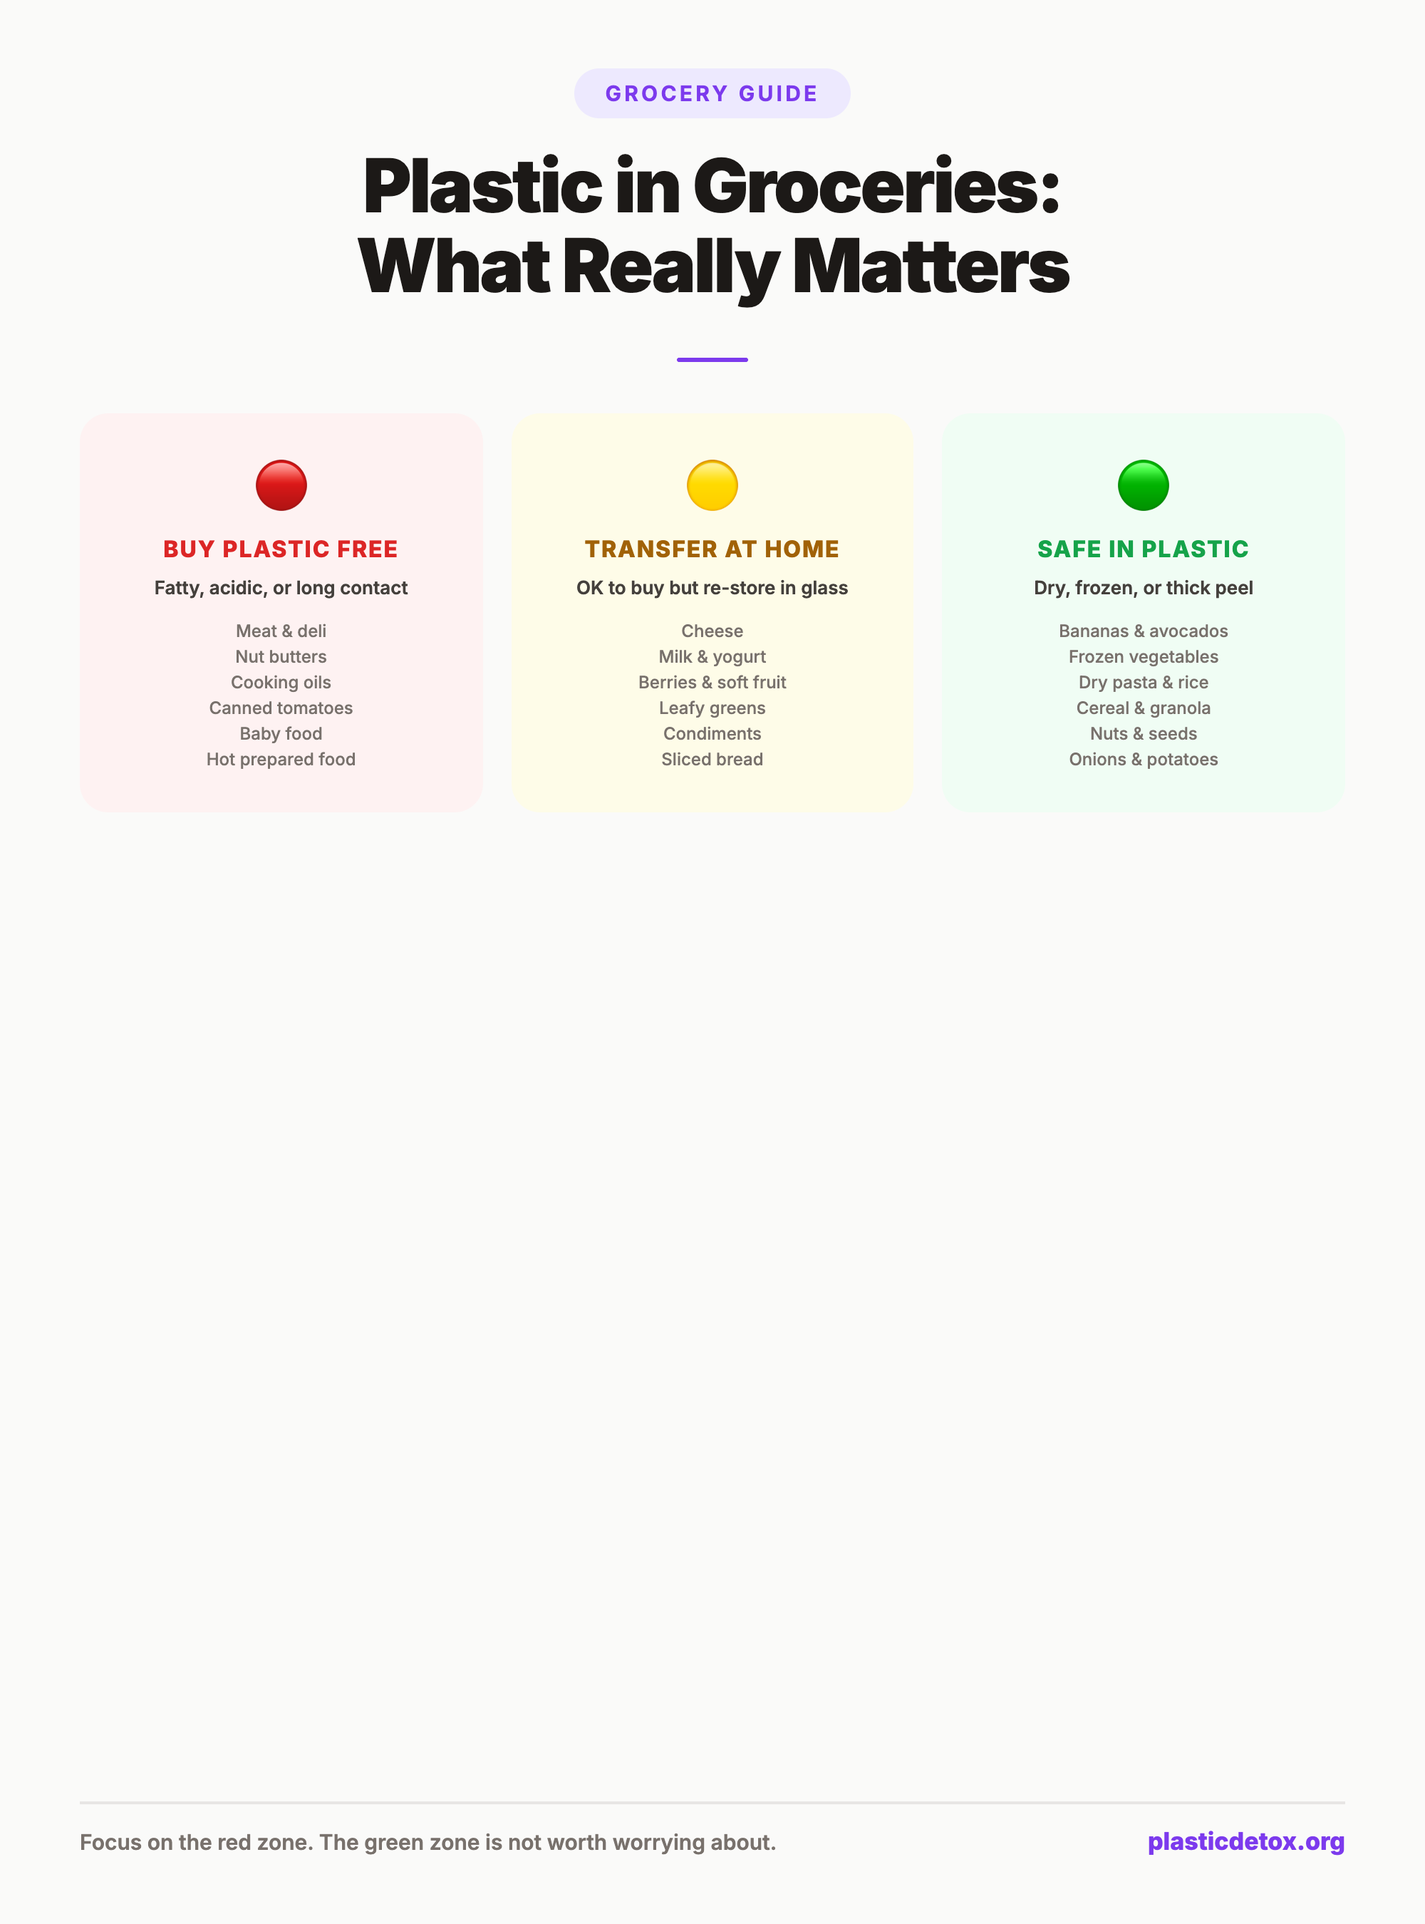
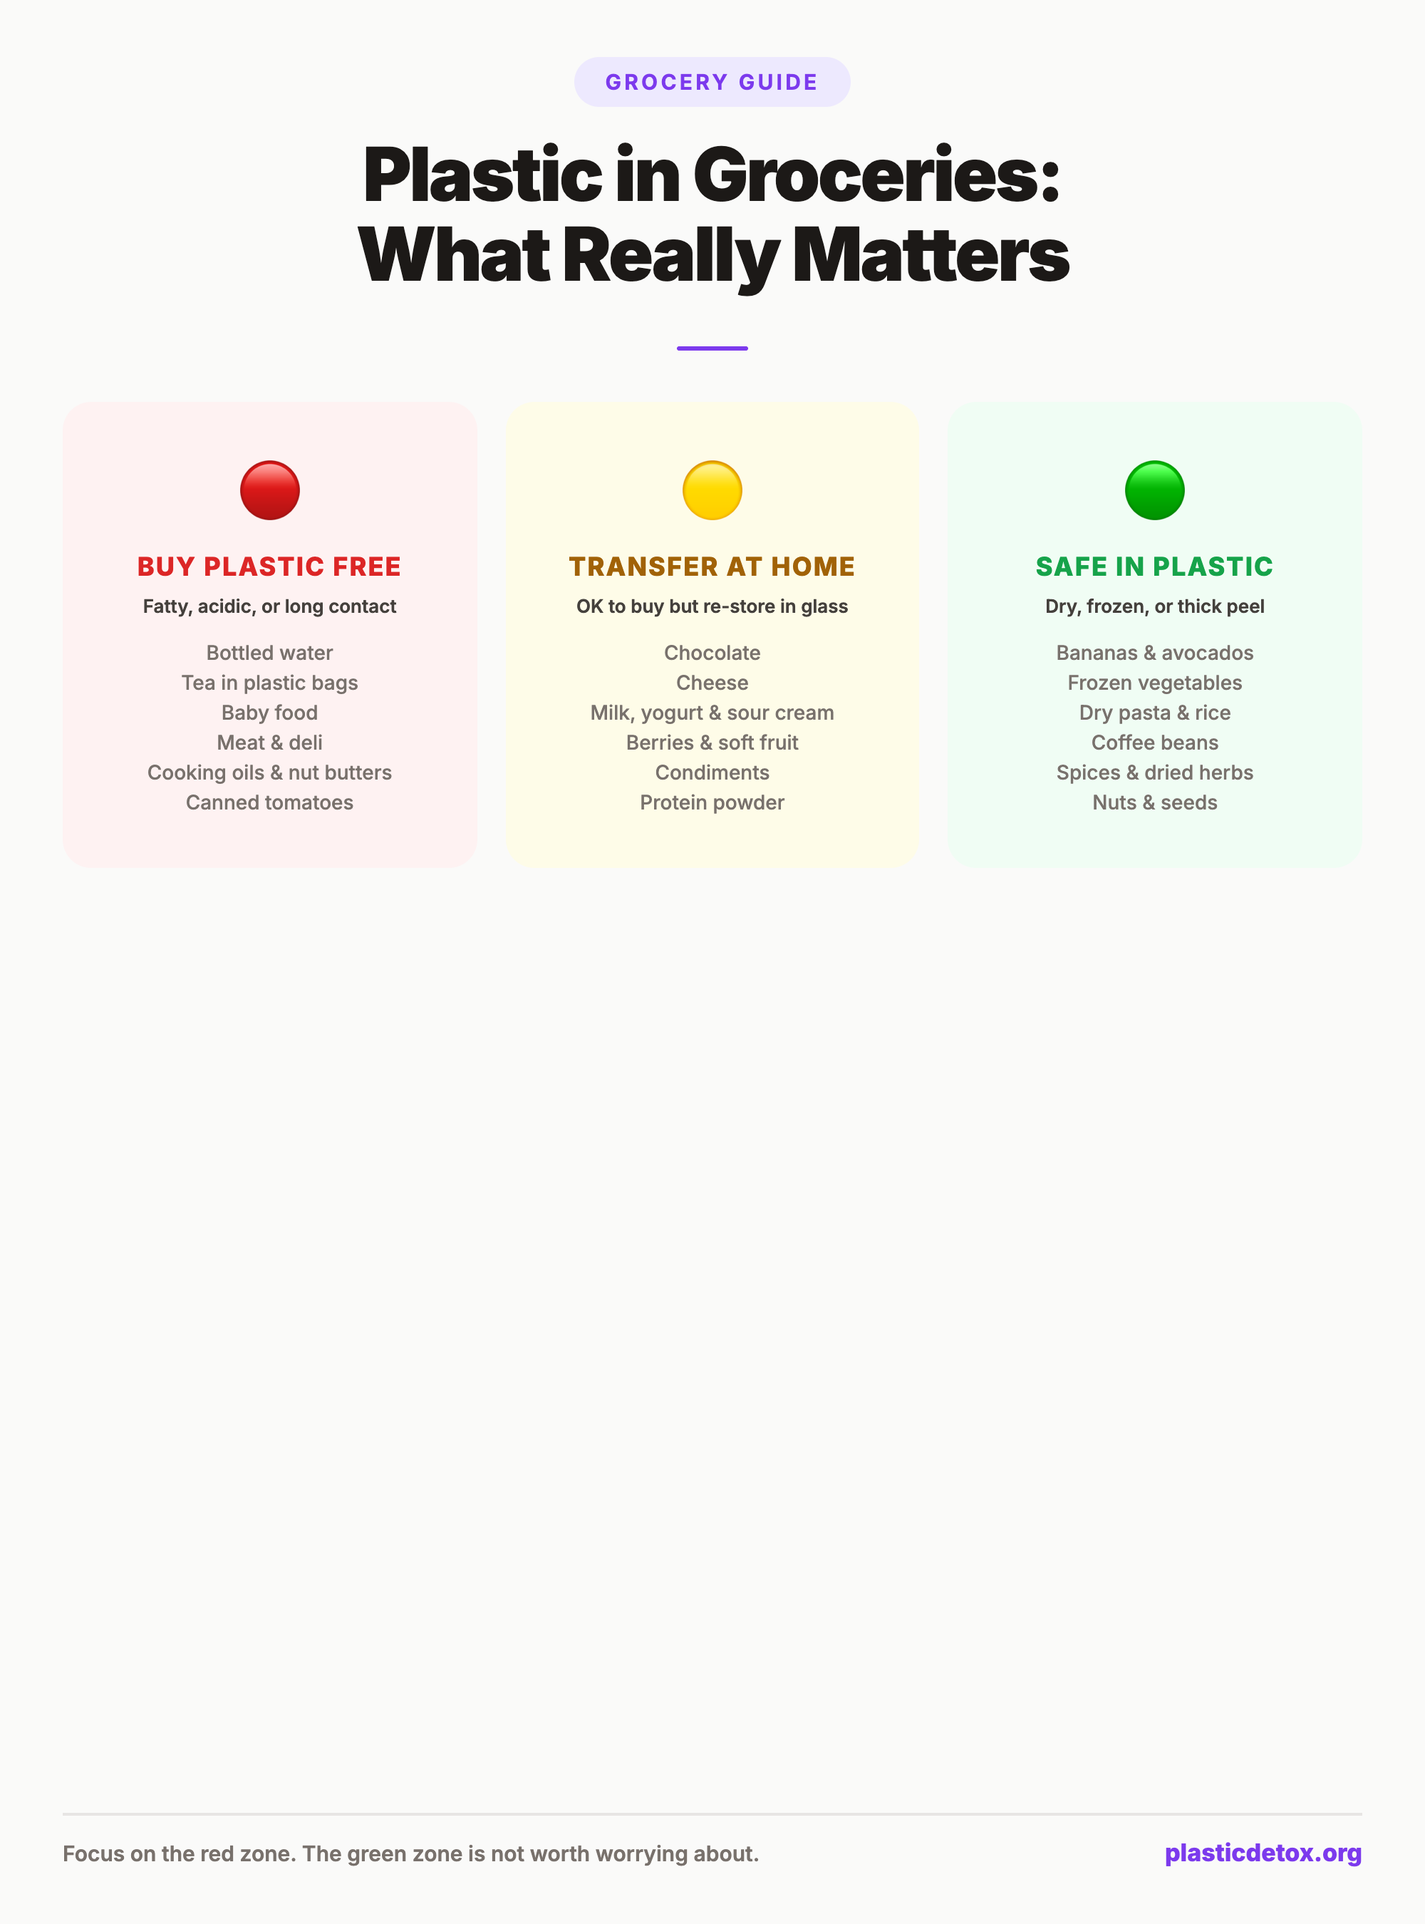
Update headline pin and create PNG infographics for all 4 article charts
- Headline pin: updated all 3 zones to match current article content
  (bottled water, tea bags, baby food as top red zone items)
- New: groceries-infographic-factors.png (4 leaching factors grid)
- New: groceries-infographic-bpa.png (BPA levels bar chart)
- New: groceries-infographic-repack.png (repacking cheat sheet table)
All at 1080x1350 pin ratio via Puppeteer screenshot.

diff --git a/images/groceries-infographic-repack.html b/images/groceries-infographic-repack.html
@@ -1,0 +1,101 @@
+<!DOCTYPE html>
+<html lang="en">
+<head>
+  <meta charset="UTF-8">
+  <meta name="robots" content="noindex, nofollow">
+  <title>Groceries — Repack Cheat Sheet</title>
+  <link href="https://fonts.googleapis.com/css2?family=Inter:wght@400;500;600;700;800;900&display=swap" rel="stylesheet">
+  <style>
+    * { margin: 0; padding: 0; box-sizing: border-box; }
+    body { background: #d6d3d1; display: flex; justify-content: center; padding: 2rem; font-family: 'Inter', -apple-system, sans-serif; }
+    .pin { width: 1080px; height: 1350px; background: #fafaf9; display: flex; flex-direction: column; align-items: center; padding: 44px 48px; }
+    .headline-tag { display: inline-block; font-size: 15px; font-weight: 700; text-transform: uppercase; letter-spacing: 0.14em; color: #7c3aed; background: #ede9fe; padding: 8px 22px; border-radius: 100px; margin-bottom: 16px; }
+    h1 { font-size: 42px; font-weight: 900; color: #1c1917; line-height: 1.08; letter-spacing: -0.03em; text-align: center; margin-bottom: 28px; }
+    .divider { width: 50px; height: 3px; background: #7c3aed; border-radius: 2px; margin-bottom: 28px; }
+    .rows { width: 100%; display: flex; flex-direction: column; gap: 8px; }
+    .row { display: flex; align-items: center; gap: 16px; background: #fff; border-radius: 14px; padding: 14px 20px; box-shadow: 0 1px 4px rgba(0,0,0,0.05); }
+    .row-food { width: 200px; font-size: 16px; font-weight: 800; color: #1c1917; flex-shrink: 0; }
+    .row-arrow { font-size: 16px; color: #7c3aed; font-weight: 800; flex-shrink: 0; }
+    .row-into { flex: 1; font-size: 15px; font-weight: 600; color: #44403c; }
+    .row-tip { font-size: 12px; font-weight: 500; color: #a8a29e; margin-left: auto; flex-shrink: 0; max-width: 260px; text-align: right; }
+    .bottom-note { font-size: 14px; font-weight: 600; color: #78716c; text-align: center; margin-top: 24px; line-height: 1.5; max-width: 800px; }
+    .footer { display: flex; align-items: center; justify-content: space-between; width: 100%; margin-top: auto; padding-top: 16px; border-top: 2px solid #e7e5e4; }
+    .footer-stat { font-size: 15px; font-weight: 600; color: #78716c; }
+    .footer-url { font-size: 17px; font-weight: 800; color: #7c3aed; }
+  </style>
+</head>
+<body>
+  <div class="pin">
+    <div class="headline-tag">Grocery Guide</div>
+    <h1>How to Repack Everything<br>When You Get Home</h1>
+    <div class="divider"></div>
+    <div class="rows">
+      <div class="row">
+        <div class="row-food">Meat and fish</div>
+        <div class="row-arrow">→</div>
+        <div class="row-into">Mason jars (32 oz) or parchment paper</div>
+        <div class="row-tip">Leave headspace for freezing</div>
+      </div>
+      <div class="row">
+        <div class="row-food">Cheese</div>
+        <div class="row-arrow">→</div>
+        <div class="row-into">Bee's Wrap or Formaticum paper</div>
+        <div class="row-tip">Unwrap from plastic immediately</div>
+      </div>
+      <div class="row">
+        <div class="row-food">Milk</div>
+        <div class="row-arrow">→</div>
+        <div class="row-into">Glass pitcher</div>
+        <div class="row-tip">Pour as soon as you unpack</div>
+      </div>
+      <div class="row">
+        <div class="row-food">Yogurt &amp; sour cream</div>
+        <div class="row-arrow">→</div>
+        <div class="row-into">Mason jars or glass bowls</div>
+        <div class="row-tip">Buy large tubs, portion to glass</div>
+      </div>
+      <div class="row">
+        <div class="row-food">Butter</div>
+        <div class="row-arrow">→</div>
+        <div class="row-into">Glass butter dish</div>
+        <div class="row-tip">Foil wrapped is lower risk</div>
+      </div>
+      <div class="row">
+        <div class="row-food">Berries &amp; soft fruit</div>
+        <div class="row-arrow">→</div>
+        <div class="row-into">Glass container or bowl</div>
+        <div class="row-tip">Rinse first to remove particles</div>
+      </div>
+      <div class="row">
+        <div class="row-food">Leafy greens</div>
+        <div class="row-arrow">→</div>
+        <div class="row-into">Glass container or salad spinner</div>
+        <div class="row-tip">Rinse even if "pre washed"</div>
+      </div>
+      <div class="row">
+        <div class="row-food">Condiments</div>
+        <div class="row-arrow">→</div>
+        <div class="row-into">Buy in glass (Primal Kitchen, Bragg)</div>
+        <div class="row-tip">Transfer squeeze bottles to jars</div>
+      </div>
+      <div class="row">
+        <div class="row-food">Bread</div>
+        <div class="row-arrow">→</div>
+        <div class="row-into">Linen bread bag or bread box</div>
+        <div class="row-tip">Buy bakery paper bags</div>
+      </div>
+      <div class="row">
+        <div class="row-food">Protein powder</div>
+        <div class="row-arrow">→</div>
+        <div class="row-into">Half gallon Mason jar (64 oz)</div>
+        <div class="row-tip">Transfer from tub on day one</div>
+      </div>
+    </div>
+    <div class="bottom-note">The goal is not perfection. Just getting food out of plastic within a few hours of arriving home eliminates the majority of ongoing exposure.</div>
+    <div class="footer">
+      <span class="footer-stat">Unpack groceries into glass, steel, or paper.</span>
+      <span class="footer-url">plasticdetox.org</span>
+    </div>
+  </div>
+</body>
+</html>

diff --git a/images/groceries-infographic-bpa.html b/images/groceries-infographic-bpa.html
@@ -1,0 +1,71 @@
+<!DOCTYPE html>
+<html lang="en">
+<head>
+  <meta charset="UTF-8">
+  <meta name="robots" content="noindex, nofollow">
+  <title>Groceries — BPA in Canned Foods</title>
+  <link href="https://fonts.googleapis.com/css2?family=Inter:wght@400;500;600;700;800;900&display=swap" rel="stylesheet">
+  <style>
+    * { margin: 0; padding: 0; box-sizing: border-box; }
+    body { background: #d6d3d1; display: flex; justify-content: center; padding: 2rem; font-family: 'Inter', -apple-system, sans-serif; }
+    .pin { width: 1080px; height: 1350px; background: #fafaf9; display: flex; flex-direction: column; align-items: center; justify-content: center; padding: 48px 56px; }
+    .headline-tag { display: inline-block; font-size: 15px; font-weight: 700; text-transform: uppercase; letter-spacing: 0.14em; color: #7c3aed; background: #ede9fe; padding: 8px 22px; border-radius: 100px; margin-bottom: 16px; }
+    h1 { font-size: 44px; font-weight: 900; color: #1c1917; line-height: 1.08; letter-spacing: -0.03em; text-align: center; margin-bottom: 32px; }
+    .divider { width: 50px; height: 3px; background: #7c3aed; border-radius: 2px; margin-bottom: 40px; }
+    .bars { width: 100%; display: flex; flex-direction: column; gap: 18px; }
+    .bar-row { display: flex; align-items: center; gap: 16px; }
+    .bar-label { width: 220px; text-align: right; font-size: 18px; font-weight: 700; color: #1c1917; flex-shrink: 0; }
+    .bar-track { flex: 1; height: 44px; background: #f5f5f4; border-radius: 10px; position: relative; overflow: hidden; }
+    .bar-fill { height: 100%; border-radius: 10px; display: flex; align-items: center; justify-content: flex-end; padding-right: 14px; }
+    .bar-value { font-size: 16px; font-weight: 800; color: #fff; }
+    .bar-red { background: #dc2626; }
+    .bar-orange { background: #ea580c; }
+    .bar-yellow { background: #ca8a04; }
+    .bar-green { background: #16a34a; }
+    .source { font-size: 13px; color: #a8a29e; text-align: center; margin-top: 32px; line-height: 1.5; max-width: 800px; }
+    .takeaway { width: 100%; background: #fef2f2; border-radius: 16px; padding: 24px 32px; text-align: center; font-size: 17px; font-weight: 700; color: #991b1b; line-height: 1.45; margin-top: 32px; }
+    .footer { display: flex; align-items: center; justify-content: space-between; width: 100%; margin-top: auto; padding-top: 16px; border-top: 2px solid #e7e5e4; }
+    .footer-stat { font-size: 15px; font-weight: 600; color: #78716c; }
+    .footer-url { font-size: 17px; font-weight: 800; color: #7c3aed; }
+  </style>
+</head>
+<body>
+  <div class="pin">
+    <div class="headline-tag">Grocery Guide</div>
+    <h1>BPA Levels in Canned Foods<br>(micrograms per can)</h1>
+    <div class="divider"></div>
+    <div class="bars">
+      <div class="bar-row">
+        <div class="bar-label">Tomato soup</div>
+        <div class="bar-track"><div class="bar-fill bar-red" style="width:100%"><span class="bar-value">54 µg</span></div></div>
+      </div>
+      <div class="bar-row">
+        <div class="bar-label">Crushed tomatoes</div>
+        <div class="bar-track"><div class="bar-fill bar-red" style="width:89%"><span class="bar-value">48 µg</span></div></div>
+      </div>
+      <div class="bar-row">
+        <div class="bar-label">Canned pasta</div>
+        <div class="bar-track"><div class="bar-fill bar-orange" style="width:61%"><span class="bar-value">33 µg</span></div></div>
+      </div>
+      <div class="bar-row">
+        <div class="bar-label">Green beans</div>
+        <div class="bar-track"><div class="bar-fill bar-yellow" style="width:33%"><span class="bar-value">18 µg</span></div></div>
+      </div>
+      <div class="bar-row">
+        <div class="bar-label">Mixed vegetables</div>
+        <div class="bar-track"><div class="bar-fill bar-green" style="width:24%"><span class="bar-value">13 µg</span></div></div>
+      </div>
+      <div class="bar-row">
+        <div class="bar-label">Tuna</div>
+        <div class="bar-track"><div class="bar-fill bar-green" style="width:19%"><span class="bar-value">10 µg</span></div></div>
+      </div>
+    </div>
+    <div class="takeaway">Acidic foods have dramatically higher BPA levels.<br>Switch canned tomatoes to glass jars first.</div>
+    <div class="source">Sources: FDA Total Diet Study (2014 to 2021), Lakind &amp; Naiman (2011). Approximate averages per standard can.</div>
+    <div class="footer">
+      <span class="footer-stat">Cans look like metal, but almost all have a plastic interior lining.</span>
+      <span class="footer-url">plasticdetox.org</span>
+    </div>
+  </div>
+</body>
+</html>

diff --git a/images/groceries-infographic-factors.html b/images/groceries-infographic-factors.html
@@ -1,0 +1,69 @@
+<!DOCTYPE html>
+<html lang="en">
+<head>
+  <meta charset="UTF-8">
+  <meta name="robots" content="noindex, nofollow">
+  <title>Groceries — Four Leaching Factors</title>
+  <link href="https://fonts.googleapis.com/css2?family=Inter:wght@400;500;600;700;800;900&display=swap" rel="stylesheet">
+  <style>
+    * { margin: 0; padding: 0; box-sizing: border-box; }
+    body { background: #d6d3d1; display: flex; justify-content: center; padding: 2rem; font-family: 'Inter', -apple-system, sans-serif; }
+    .pin { width: 1080px; height: 1350px; background: #fafaf9; display: flex; flex-direction: column; align-items: center; justify-content: center; padding: 48px 56px; }
+    .headline-tag { display: inline-block; font-size: 15px; font-weight: 700; text-transform: uppercase; letter-spacing: 0.14em; color: #7c3aed; background: #ede9fe; padding: 8px 22px; border-radius: 100px; margin-bottom: 16px; }
+    h1 { font-size: 46px; font-weight: 900; color: #1c1917; line-height: 1.08; letter-spacing: -0.03em; text-align: center; margin-bottom: 32px; }
+    .divider { width: 50px; height: 3px; background: #7c3aed; border-radius: 2px; margin-bottom: 36px; }
+    .factors { width: 100%; display: grid; grid-template-columns: 1fr 1fr; gap: 20px; margin-bottom: 32px; }
+    .factor { background: #fff; border-radius: 20px; padding: 36px 28px; box-shadow: 0 2px 8px rgba(0,0,0,0.06); text-align: center; }
+    .factor-icon { font-size: 48px; margin-bottom: 14px; }
+    .factor-title { font-size: 20px; font-weight: 800; color: #1c1917; margin-bottom: 10px; }
+    .factor-desc { font-size: 15px; font-weight: 500; color: #78716c; line-height: 1.5; }
+    .factor-badge { display: inline-block; font-size: 12px; font-weight: 700; text-transform: uppercase; letter-spacing: 0.08em; padding: 5px 16px; border-radius: 100px; margin-top: 14px; }
+    .badge-red { background: #fef2f2; color: #dc2626; }
+    .badge-orange { background: #fff7ed; color: #ea580c; }
+    .badge-yellow { background: #fef9c3; color: #a16207; }
+    .badge-green { background: #f0fdf4; color: #16a34a; }
+    .bottom-tip { width: 100%; background: #ede9fe; border-radius: 16px; padding: 24px 32px; text-align: center; font-size: 17px; font-weight: 700; color: #5b21b6; line-height: 1.45; }
+    .footer { display: flex; align-items: center; justify-content: space-between; width: 100%; margin-top: auto; padding-top: 16px; border-top: 2px solid #e7e5e4; }
+    .footer-stat { font-size: 15px; font-weight: 600; color: #78716c; }
+    .footer-url { font-size: 17px; font-weight: 800; color: #7c3aed; }
+  </style>
+</head>
+<body>
+  <div class="pin">
+    <div class="headline-tag">Grocery Guide</div>
+    <h1>4 Factors That Make Plastic<br>Packaging Dangerous</h1>
+    <div class="divider"></div>
+    <div class="factors">
+      <div class="factor">
+        <div class="factor-icon">🧈</div>
+        <div class="factor-title">Fat Content</div>
+        <div class="factor-desc">BPA and phthalates are fat soluble. Fatty foods absorb more chemicals from plastic packaging than lean foods.</div>
+        <div class="factor-badge badge-red">Biggest factor</div>
+      </div>
+      <div class="factor">
+        <div class="factor-icon">🍋</div>
+        <div class="factor-title">Acidity</div>
+        <div class="factor-desc">Acidic foods (tomatoes, citrus, vinegar) break down plastic faster and accelerate chemical leaching.</div>
+        <div class="factor-badge badge-orange">Major factor</div>
+      </div>
+      <div class="factor">
+        <div class="factor-icon">⏱</div>
+        <div class="factor-title">Contact Time</div>
+        <div class="factor-desc">The longer food sits in plastic, the more it absorbs. Deli meat on a tray for 5 days vs. a banana in a bag for 10 minutes.</div>
+        <div class="factor-badge badge-yellow">Moderate factor</div>
+      </div>
+      <div class="factor">
+        <div class="factor-icon">🌡</div>
+        <div class="factor-title">Temperature</div>
+        <div class="factor-desc">Heat massively accelerates leaching. Frozen = safe. Room temp = moderate. Hot food in plastic = maximum risk.</div>
+        <div class="factor-badge badge-red">Multiplier</div>
+      </div>
+    </div>
+    <div class="bottom-tip">When all 4 factors line up (fatty + acidic + long time + warm),<br>the exposure is extreme. When none apply, it is negligible.</div>
+    <div class="footer">
+      <span class="footer-stat">Not all plastic contact with food is equally harmful.</span>
+      <span class="footer-url">plasticdetox.org</span>
+    </div>
+  </div>
+</body>
+</html>

diff --git a/images/groceries-headline-only.html b/images/groceries-headline-only.html
@@ -23,7 +23,7 @@
       flex-direction: column;
       align-items: center;
       justify-content: center;
-      padding: 48px 56px;
+      padding: 40px 44px;
       text-align: center;
     }
 
@@ -67,7 +67,7 @@
     .zone {
       flex: 1;
       border-radius: 20px;
-      padding: 28px 24px;
+      padding: 36px 28px;
       text-align: center;
     }
 
@@ -76,12 +76,12 @@
     .zone-g { background: #f0fdf4; }
 
     .zone-icon {
-      font-size: 36px;
-      margin-bottom: 10px;
+      font-size: 42px;
+      margin-bottom: 14px;
     }
 
     .zone-label {
-      font-size: 16px;
+      font-size: 18px;
       font-weight: 800;
       text-transform: uppercase;
       letter-spacing: 0.06em;
@@ -106,7 +106,7 @@
     }
 
     .zone-items li {
-      font-size: 12px;
+      font-size: 14px;
       font-weight: 500;
       color: #78716c;
       line-height: 1.5;
@@ -146,12 +146,12 @@
         <div class="zone-label">Buy Plastic Free</div>
         <div class="zone-desc">Fatty, acidic, or long contact</div>
         <ul class="zone-items">
-          <li>Meat &amp; deli</li>
-          <li>Nut butters</li>
-          <li>Cooking oils</li>
-          <li>Canned tomatoes</li>
+          <li>Bottled water</li>
+          <li>Tea in plastic bags</li>
           <li>Baby food</li>
-          <li>Hot prepared food</li>
+          <li>Meat &amp; deli</li>
+          <li>Cooking oils &amp; nut butters</li>
+          <li>Canned tomatoes</li>
         </ul>
       </div>
       <div class="zone zone-y">
@@ -159,12 +159,12 @@
         <div class="zone-label">Transfer at Home</div>
         <div class="zone-desc">OK to buy but re-store in glass</div>
         <ul class="zone-items">
+          <li>Chocolate</li>
           <li>Cheese</li>
-          <li>Milk &amp; yogurt</li>
+          <li>Milk, yogurt &amp; sour cream</li>
           <li>Berries &amp; soft fruit</li>
-          <li>Leafy greens</li>
           <li>Condiments</li>
-          <li>Sliced bread</li>
+          <li>Protein powder</li>
         </ul>
       </div>
       <div class="zone zone-g">
@@ -175,9 +175,9 @@
           <li>Bananas &amp; avocados</li>
           <li>Frozen vegetables</li>
           <li>Dry pasta &amp; rice</li>
-          <li>Cereal &amp; granola</li>
+          <li>Coffee beans</li>
+          <li>Spices &amp; dried herbs</li>
           <li>Nuts &amp; seeds</li>
-          <li>Onions &amp; potatoes</li>
         </ul>
       </div>
     </div>
